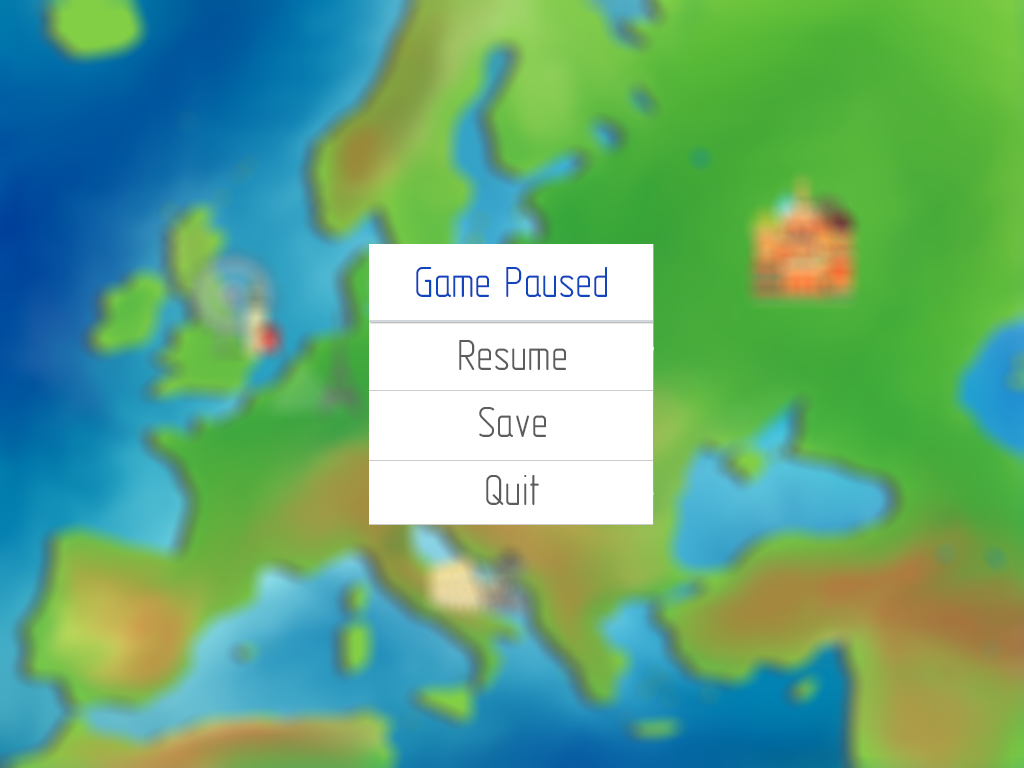
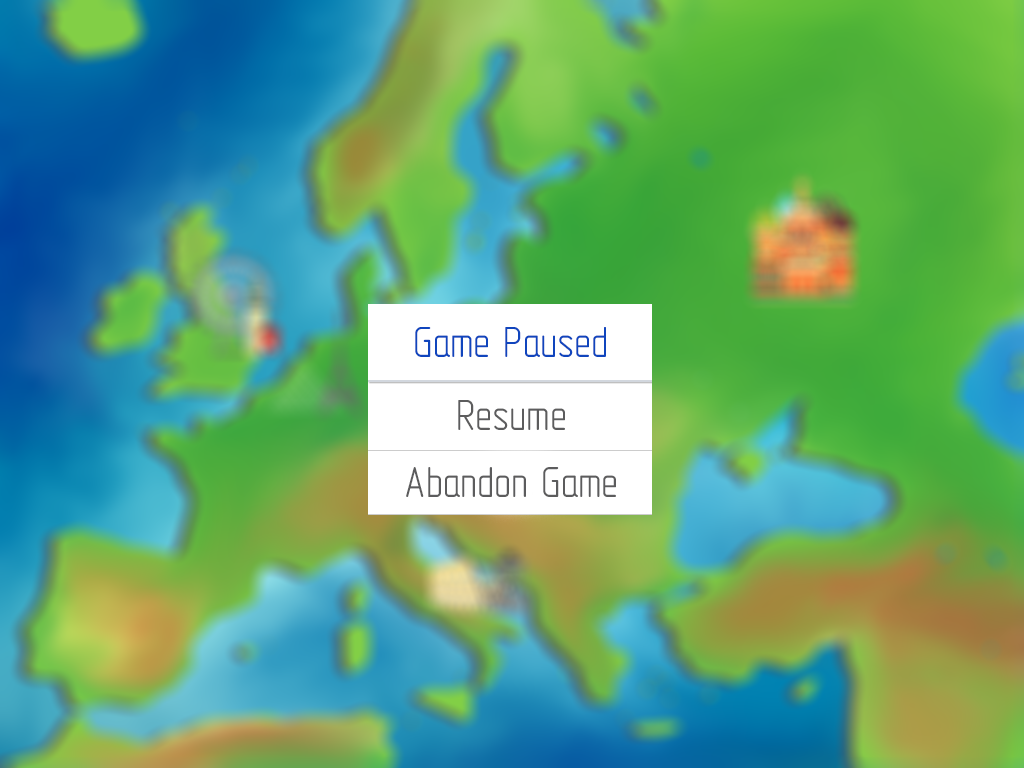
GUI adjustments to reflect feature removal

Changed region(s): [[0.3438, 0.3125, 0.6562, 0.6875]]

diff --git a/TaxE/core/src/com/fvs/taxe/scenes/PauseMenuScene.java b/TaxE/core/src/com/fvs/taxe/scenes/PauseMenuScene.java
@@ -34,24 +34,12 @@ public class PauseMenuScene extends Scene {
 			resumePressed();
 		}
 	};
-	resumeButton.setPosition(370, 378);
+	resumeButton.setPosition(370, 308);
 	resumeButton.setSize(280, 70);
 	Texture resumeText = new Texture("Clear_Button.png");
 	resumeButton.setTexture(resumeText);
 	Add(resumeButton);
 	
-	Button saveButton = new Button(this) {
-		@Override
-		public void onClickEnd()
-		{
-			savePressed();
-		}
-	};
-	saveButton.setPosition(370, 308);
-	saveButton.setSize(280, 70);
-	Texture saveText = new Texture("Clear_Button.png");
-	saveButton.setTexture(saveText);
-	Add(saveButton);
 	
 	Button quitButton = new Button(this) {
 		@Override

diff --git a/TaxE/core/src/com/fvs/taxe/scenes/GameScene.java b/TaxE/core/src/com/fvs/taxe/scenes/GameScene.java
@@ -273,19 +273,6 @@ public class GameScene extends GameGUIScene {
 		Add(settingsButton);
 		//Create settings menu button
 		
-		Button leaderButton = new Button(this) {
-			@Override
-			public void onClickEnd()
-			{
-				Game.pushScene(makeDialogueScene("Leaderboard coming soon!"));
-			}
-		};
-		leaderButton.setZ(Game.guiZ);
-		leaderButton.setPosition(814, 0);
-		leaderButton.setSize(100, 100);
-		leaderButton.setTexture(buttonText);
-		Add(leaderButton);
-		
 		events = new EventHandler();
 
 		initialiseGoals();
